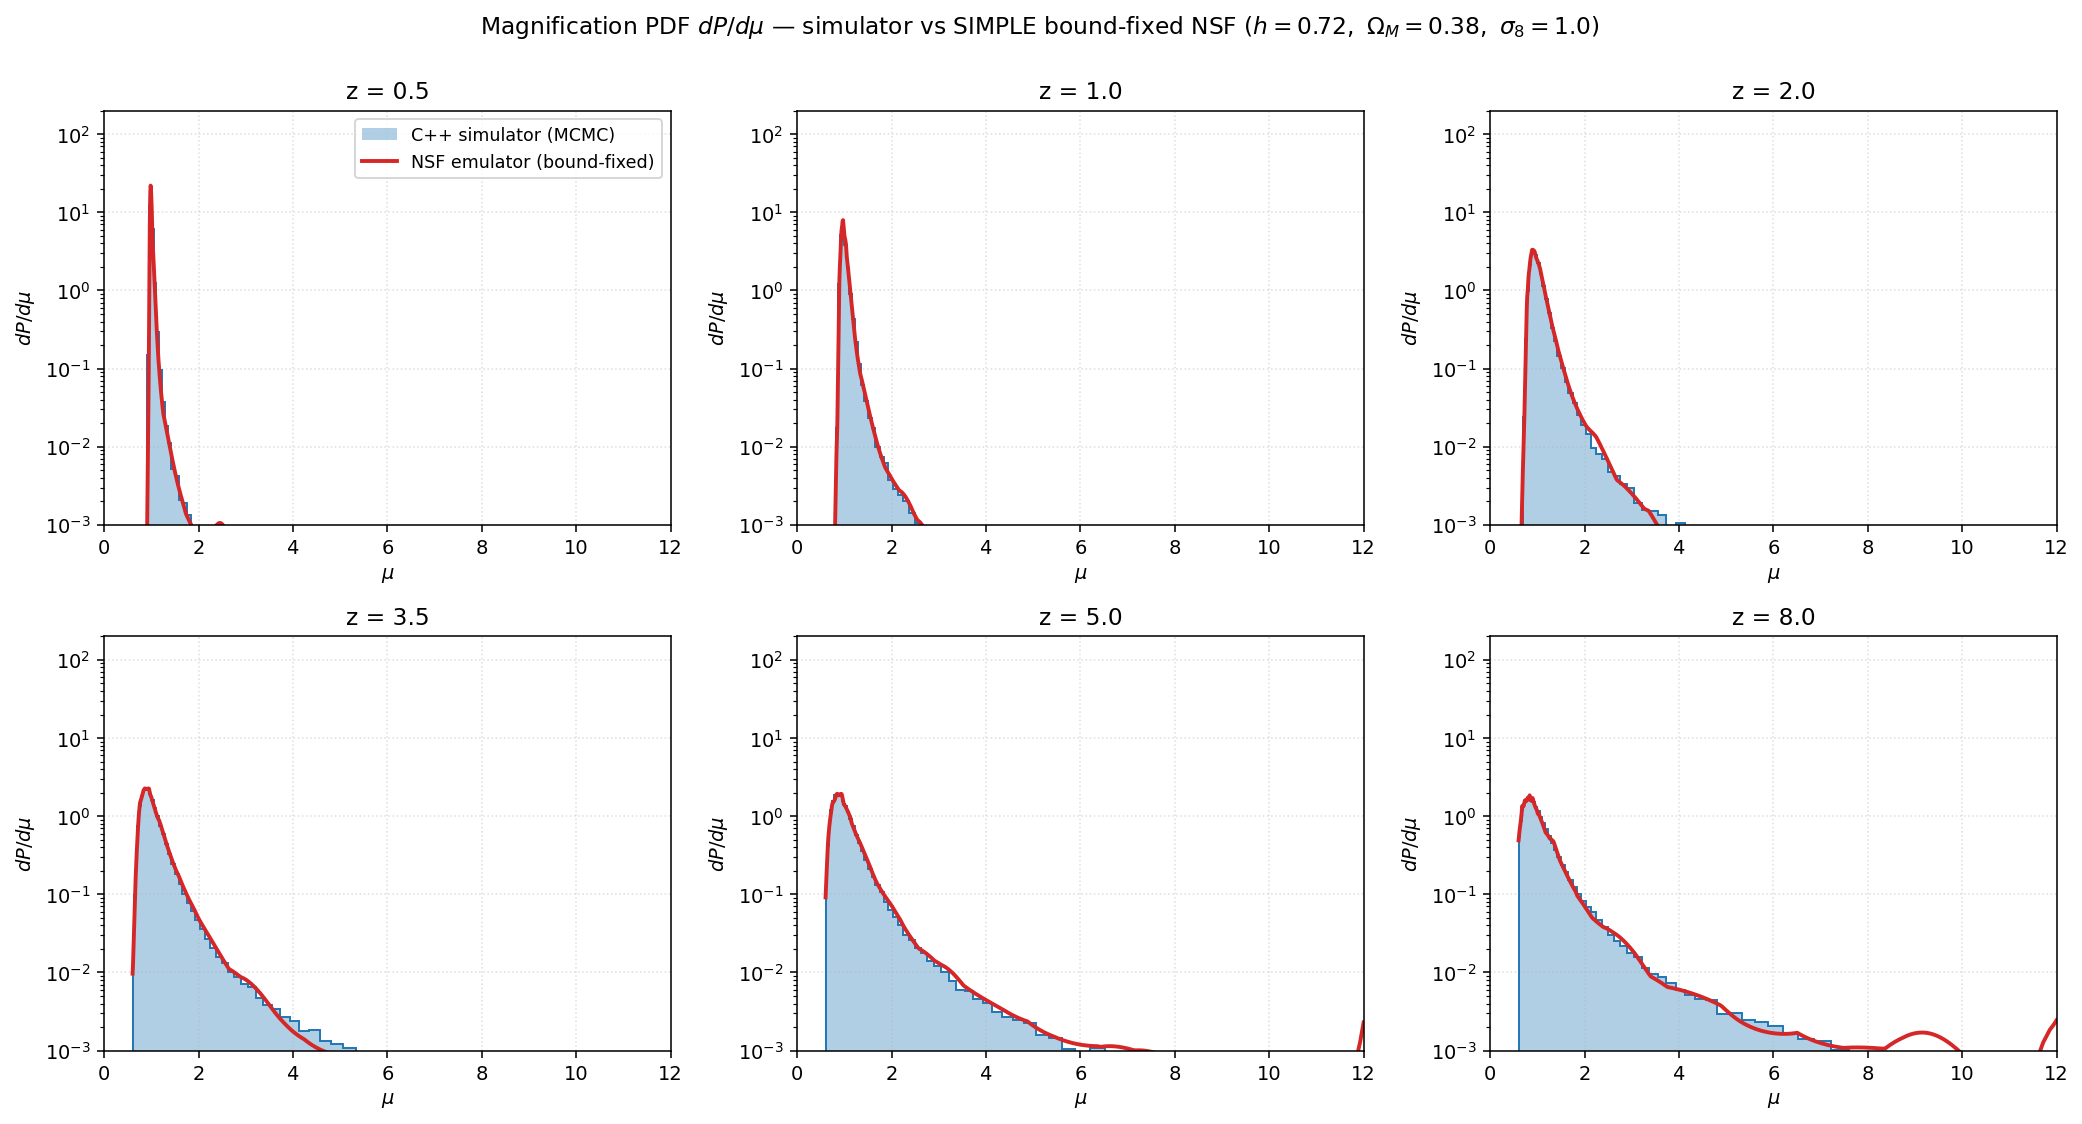
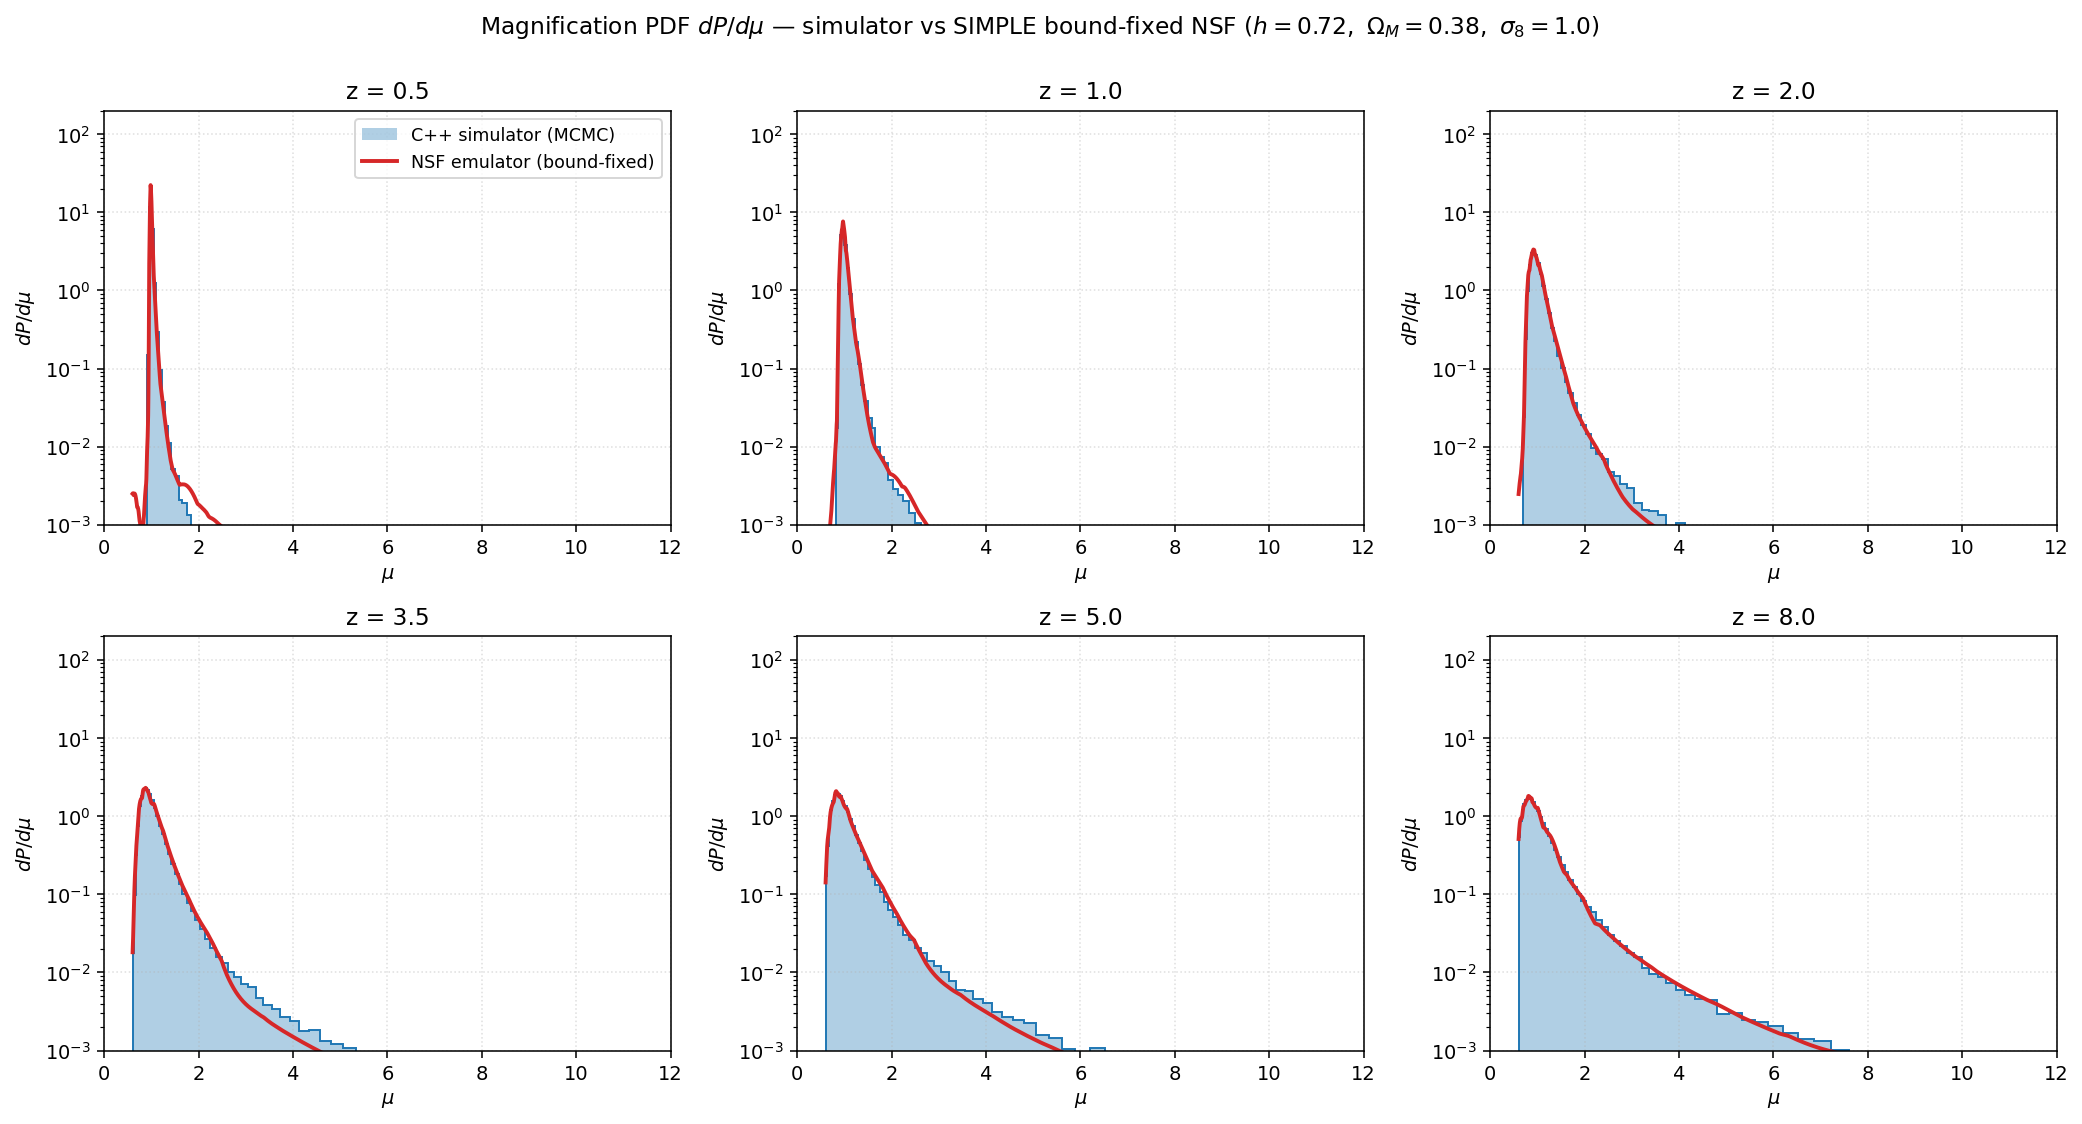
exp: heavier StudentT base df=2.5 (more far-tail mass budget) on smooth single flow

diff --git a/ml/autoresearch/train_ar.py b/ml/autoresearch/train_ar.py
@@ -39,7 +39,7 @@ CONFIG = dict(
     transforms=6,        # number of autoregressive transforms
     hidden=128,          # hypernetwork hidden width (x2 layers)
     base="studentt",     # "normal" | "studentt"
-    df=4.0,              # StudentT degrees of freedom (heavier tail = smaller df)
+    df=2.5,              # StudentT degrees of freedom (heavier tail = smaller df)
     # --- optimization ---
     lr=1e-3,
     weight_decay=1e-5,
